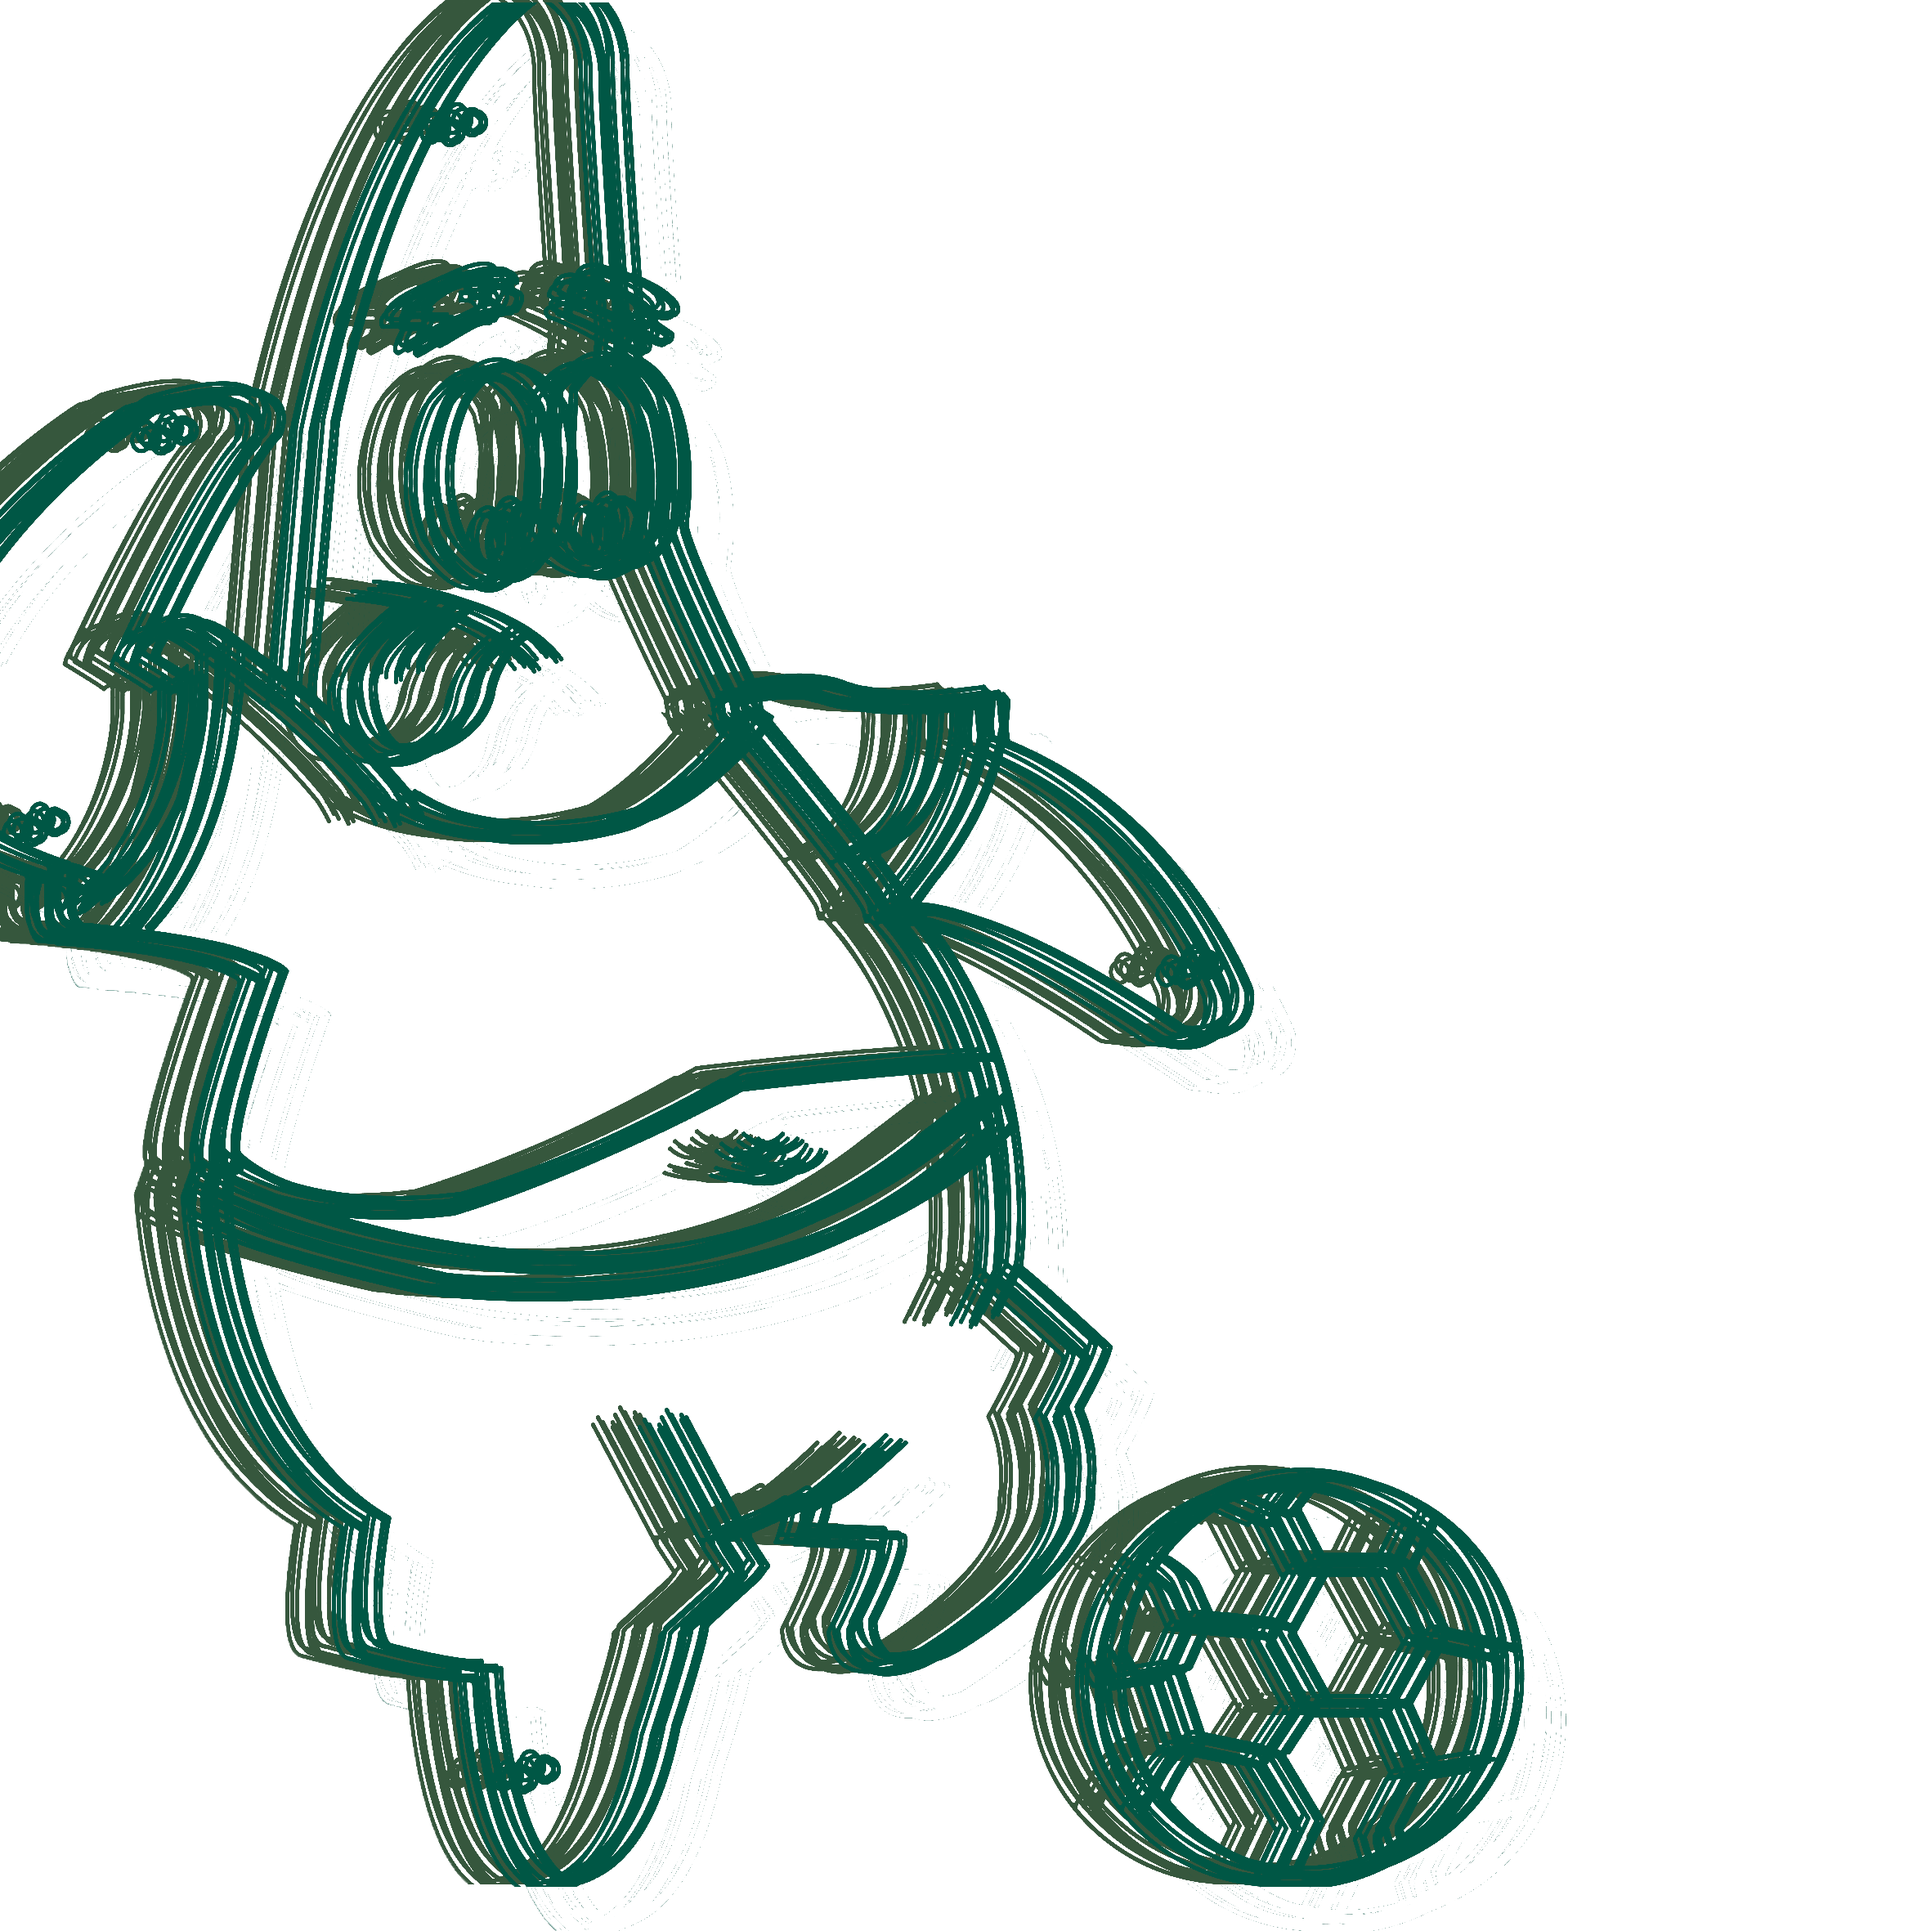
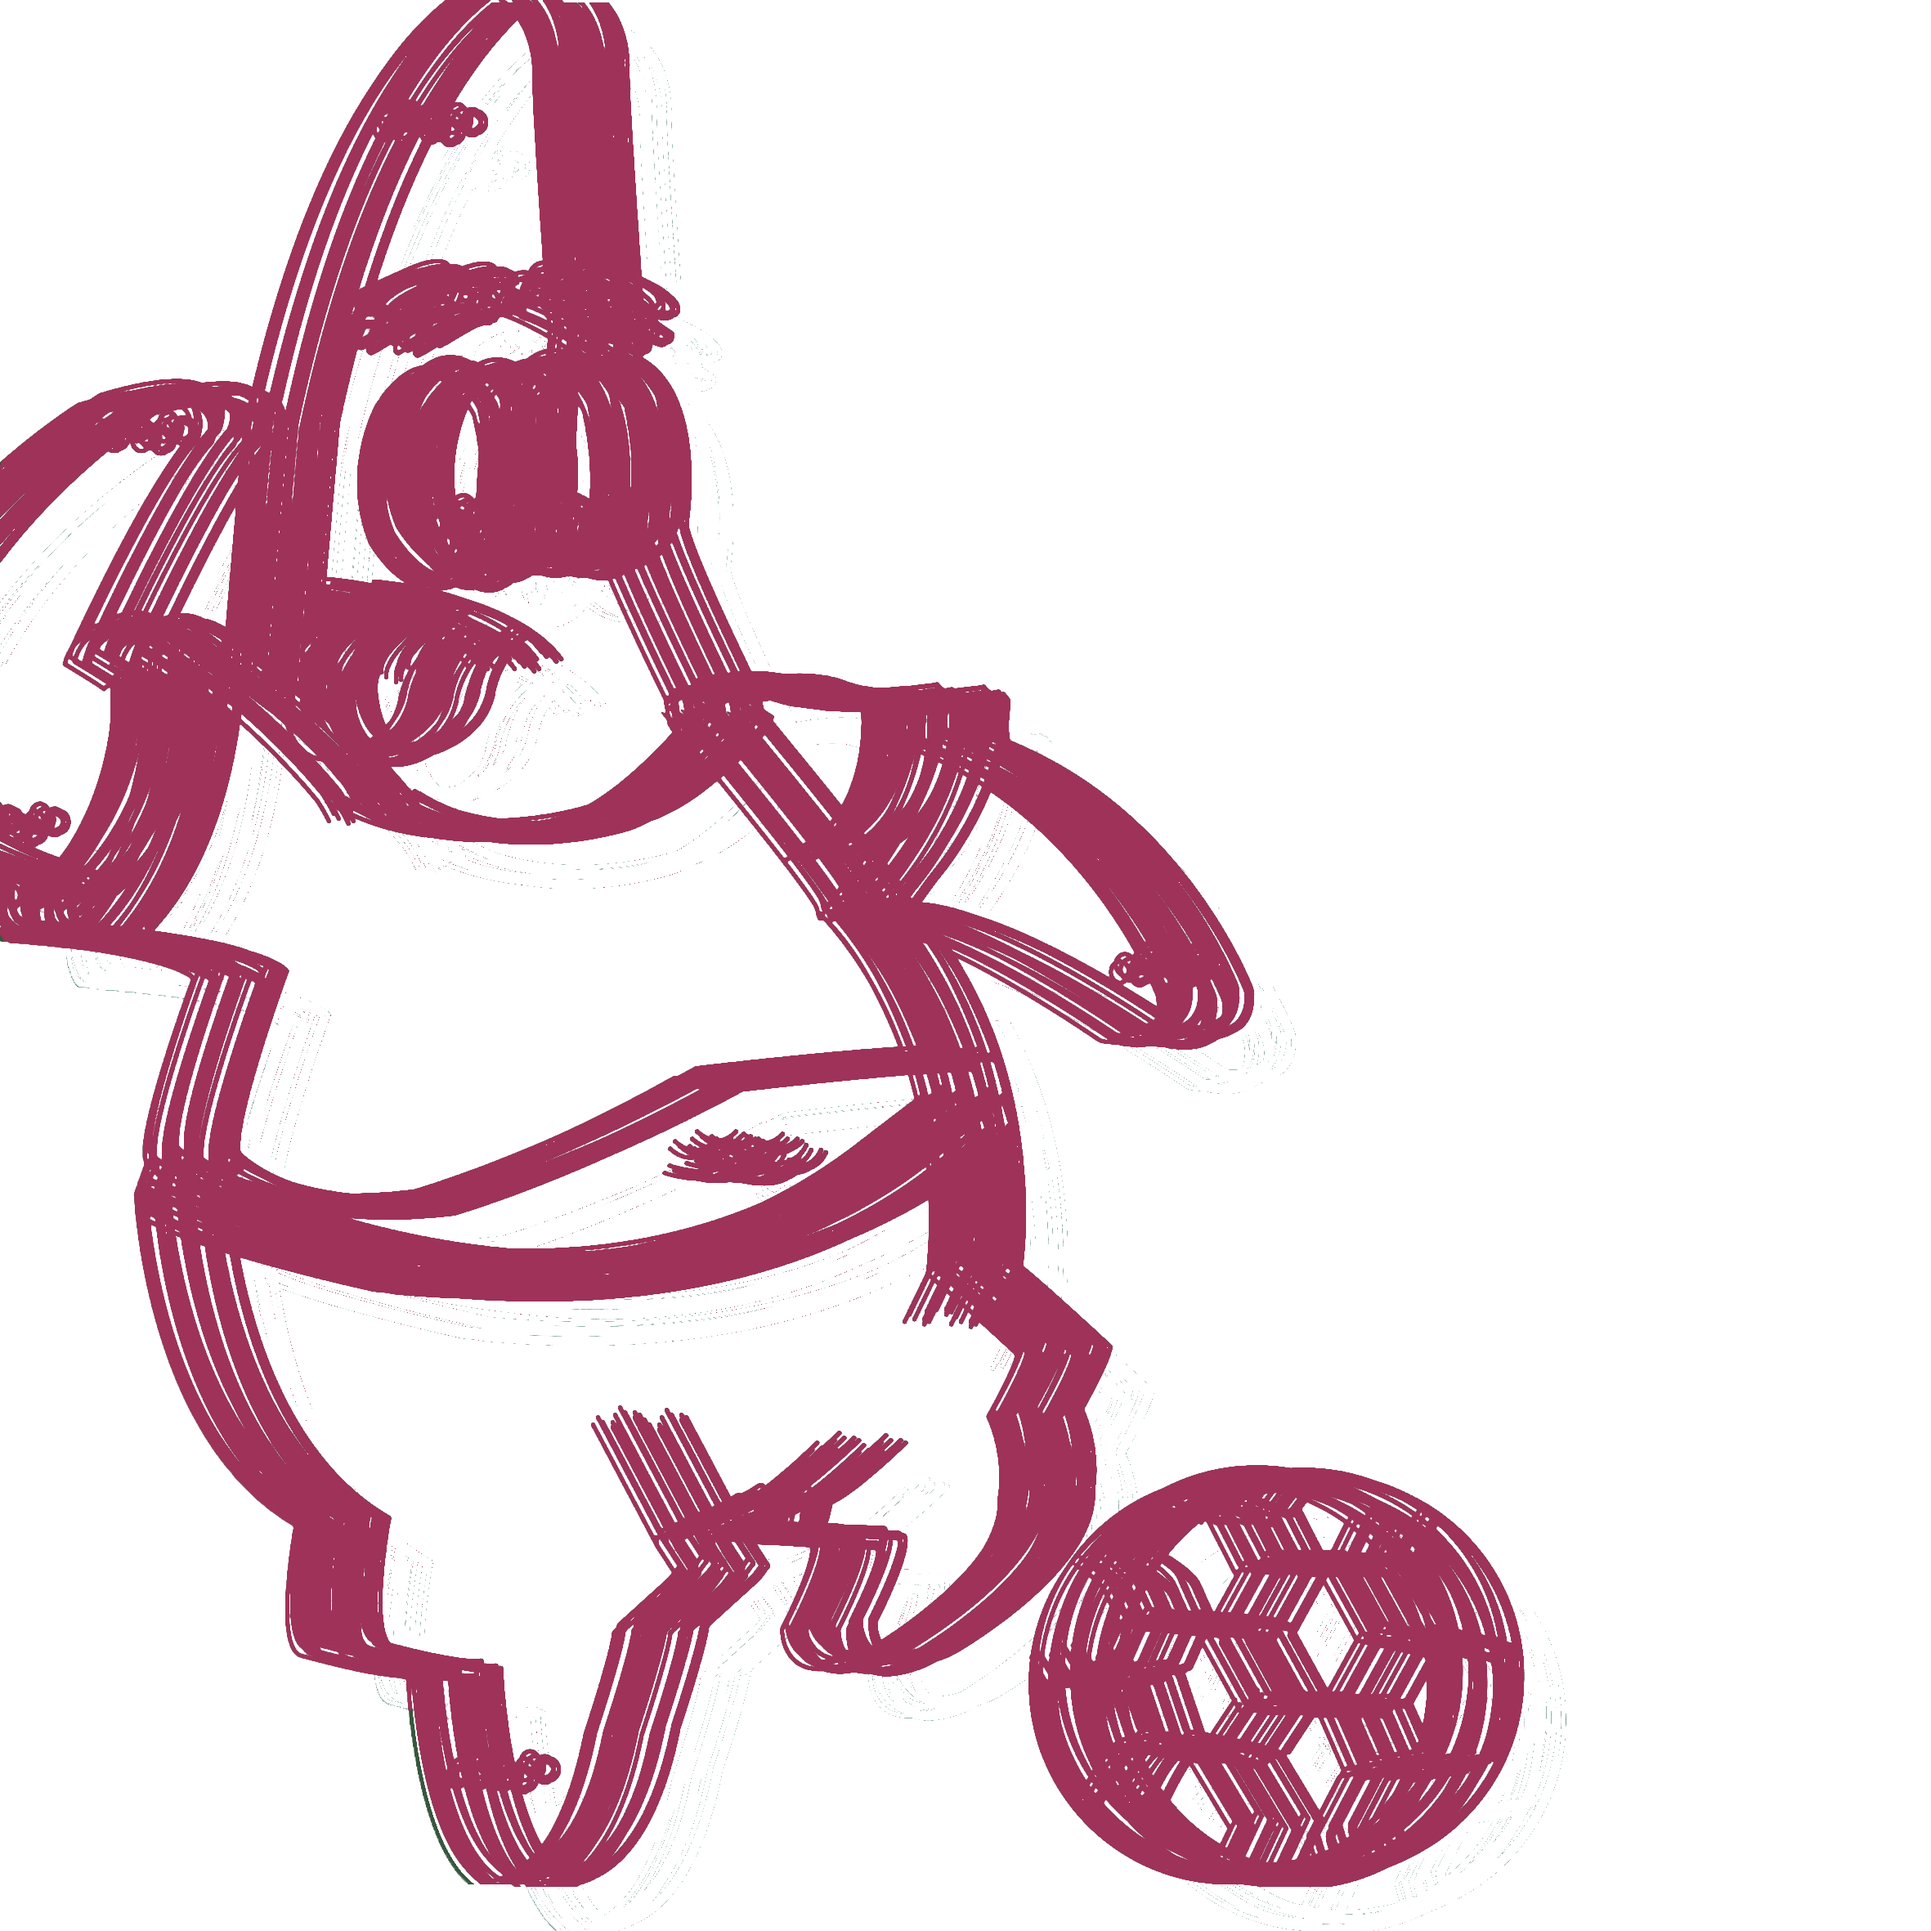
try

Changed region(s): [[0.0, 0.0, 0.8036, 0.989]]

diff --git a/index.html b/index.html
@@ -42,9 +42,9 @@
             <div class="header-wrap">
               <div class="header-logo logo animated" data-animate="fadeInDown" data-delay=".6">
                 <a href="index1.html" class="logo-link">
-                  <img class="logo-dark" src="static/picture/NIPIC_32296053_20210331141536375.png" srcset="/images/NIPIC_32296053_20210331141536375.png 2x" alt="logo">
+                  <img class="logo-dark" src="static/picture/NIPIC_32296053_20210331141536375.png" srcset="/images/NIPIC_32296053_20210331141536375.png 2x4" alt="logo">
 <!--                  <img class="logo-dark" src="static/picture/NIPIC_32296053_20210331141536375.png" srcset="/images/NIPIC_32296053_20210331141536375.png 2x" alt="logo">-->
-                  <img class="logo-light" src="static/picture/NIPIC_32296053_20210331141536375.png" srcset="/images/NIPIC_32296053_20210331141536375.png 2x" alt="logo">
+                  <img class="logo-light" src="static/picture/NIPIC_32296053_20210331141536375.png" srcset="/images/NIPIC_32296053_20210331141536375.png 2x4" alt="logo">
                 </a>
               </div>
 
@@ -241,11 +241,11 @@
                 </div>
                 <div class="col-xxl col-lg-6">
                   <ul class="chart-data-s2 row" data-canvas="token-distribution" data-canvas-type="pie" data-border-color="#ccc">
-                    <li class="col-sm-8" data-color="#1a4921" data-color-hover="#1a4921" data-label="Presale" data-title="Presale Round" data-subtitle="" data-amount="40"></li>
-                    <li class="col-sm-8" data-color="#276f31" data-color-hover="#276f31" data-label="Liquid Pool" data-title="Liquid Pool" data-subtitle="" data-amount="21"></li>
-                    <li class="col-sm-6" data-color="#339641" data-color-hover="#339641" data-label="Staking Platform" data-title="Staking Platform" data-subtitle="(TGE 40% - Vesting 2 months - 30%/month)" data-amount="20"></li>
-                    <li class="col-sm-6" data-color="#3ebe51" data-color-hover="#3ebe51" data-label="Development Fund" data-title="Development Fund" data-subtitle="(TGE 0% - Vesting 10 months - 1%/month)" data-amount="10"></li>
-                    <li class="col-sm-6" data-color="#62cd72" data-color-hover="#62cd72" data-label="CEX Listing" data-title="CEX Listing" data-subtitle="(TGE 0% - Lock 1 month)" data-amount="9"></li>
+                    <li class="col-sm-8" data-color="#ff089a" data-color-hover="#ff089a" data-label="Presale" data-title="Presale Round" data-subtitle="" data-amount="40"></li>
+                    <li class="col-sm-8" data-color="#ec36a2" data-color-hover="#ec36a2" data-label="Liquid Pool" data-title="Liquid Pool" data-subtitle="" data-amount="21"></li>
+                    <li class="col-sm-6" data-color="#f18ec8" data-color-hover="#f18ec8" data-label="Staking Platform" data-title="Staking Platform" data-subtitle="(TGE 40% - Vesting 2 months - 30%/month)" data-amount="20"></li>
+                    <li class="col-sm-6" data-color="#f3a0d1" data-color-hover="#f3a0d1" data-label="Development Fund" data-title="Development Fund" data-subtitle="(TGE 0% - Vesting 10 months - 1%/month)" data-amount="10"></li>
+                    <li class="col-sm-6" data-color="#f3a0d1" data-color-hover="#f3a0d1" data-label="CEX Listing" data-title="CEX Listing" data-subtitle="(TGE 0% - Lock 1 month)" data-amount="9"></li>
                   </ul>
                 </div>
                 <div class="col-xxl col-xl-12 order-last">
@@ -342,7 +342,7 @@
                       <ul class="ul-roadmap">
                         <li>Trust Wallet – BSCSCAN logo submission.</li>
                         <li>Partnerships.</li>
-                        <li>Launching Saudi Patrick Star Staking Protocol.</li>
+                        <li>Launching Patrick Star Staking Protocol.</li>
                         <li>AveDEX Trending #1.</li>
                       </ul>
                     </div>
@@ -369,7 +369,7 @@
                     <div class="roadmap-text">
                       <ul class="ul-roadmap">
                         <li>Launching Patrick Star system.</li>
-                        <li>Expansion of SAUDI Patrick Star listings.</li>
+                        <li>Expansion of Patrick Star listings.</li>
 <!--                        <li>Governance New Features Advancement.</li>-->
 <!--                        <li>Release of New Features in Whitepaper 2.0.</li>-->
                       </ul>
@@ -514,12 +514,12 @@
                     ">
                     <div class="owl-item cloned" style="width: 300px; margin-right: 30px">
                       <li class="partner-logo">
-                        <img src="static/picture/1.jpg" alt="">
+                        <img src="static/picture/Patrick1.jpg" alt="">
                       </li>
                     </div>
                     <div class="owl-item cloned" style="width: 300px; margin-right: 30px">
                       <li class="partner-logo">
-                        <img src="static/picture/2.jpg" alt="">
+                        <img src="static/picture/Patrick2.jpg" alt="">
                       </li>
                     </div>
                     <div class="owl-item cloned" style="width: 300px; margin-right: 30px">
@@ -925,7 +925,7 @@
       </div>
     </div>
     <!-- preloader -->
-    <div class="preloader preloader-alt no-split">
+    <div class="preloader preloader-alt no-split" style="background-color: #fff;">
       <span class="spinner spinner-alt"><img class="spinner-brand" src="static/picture/saudidao-logo.png" alt=""></span>
     </div>
 
